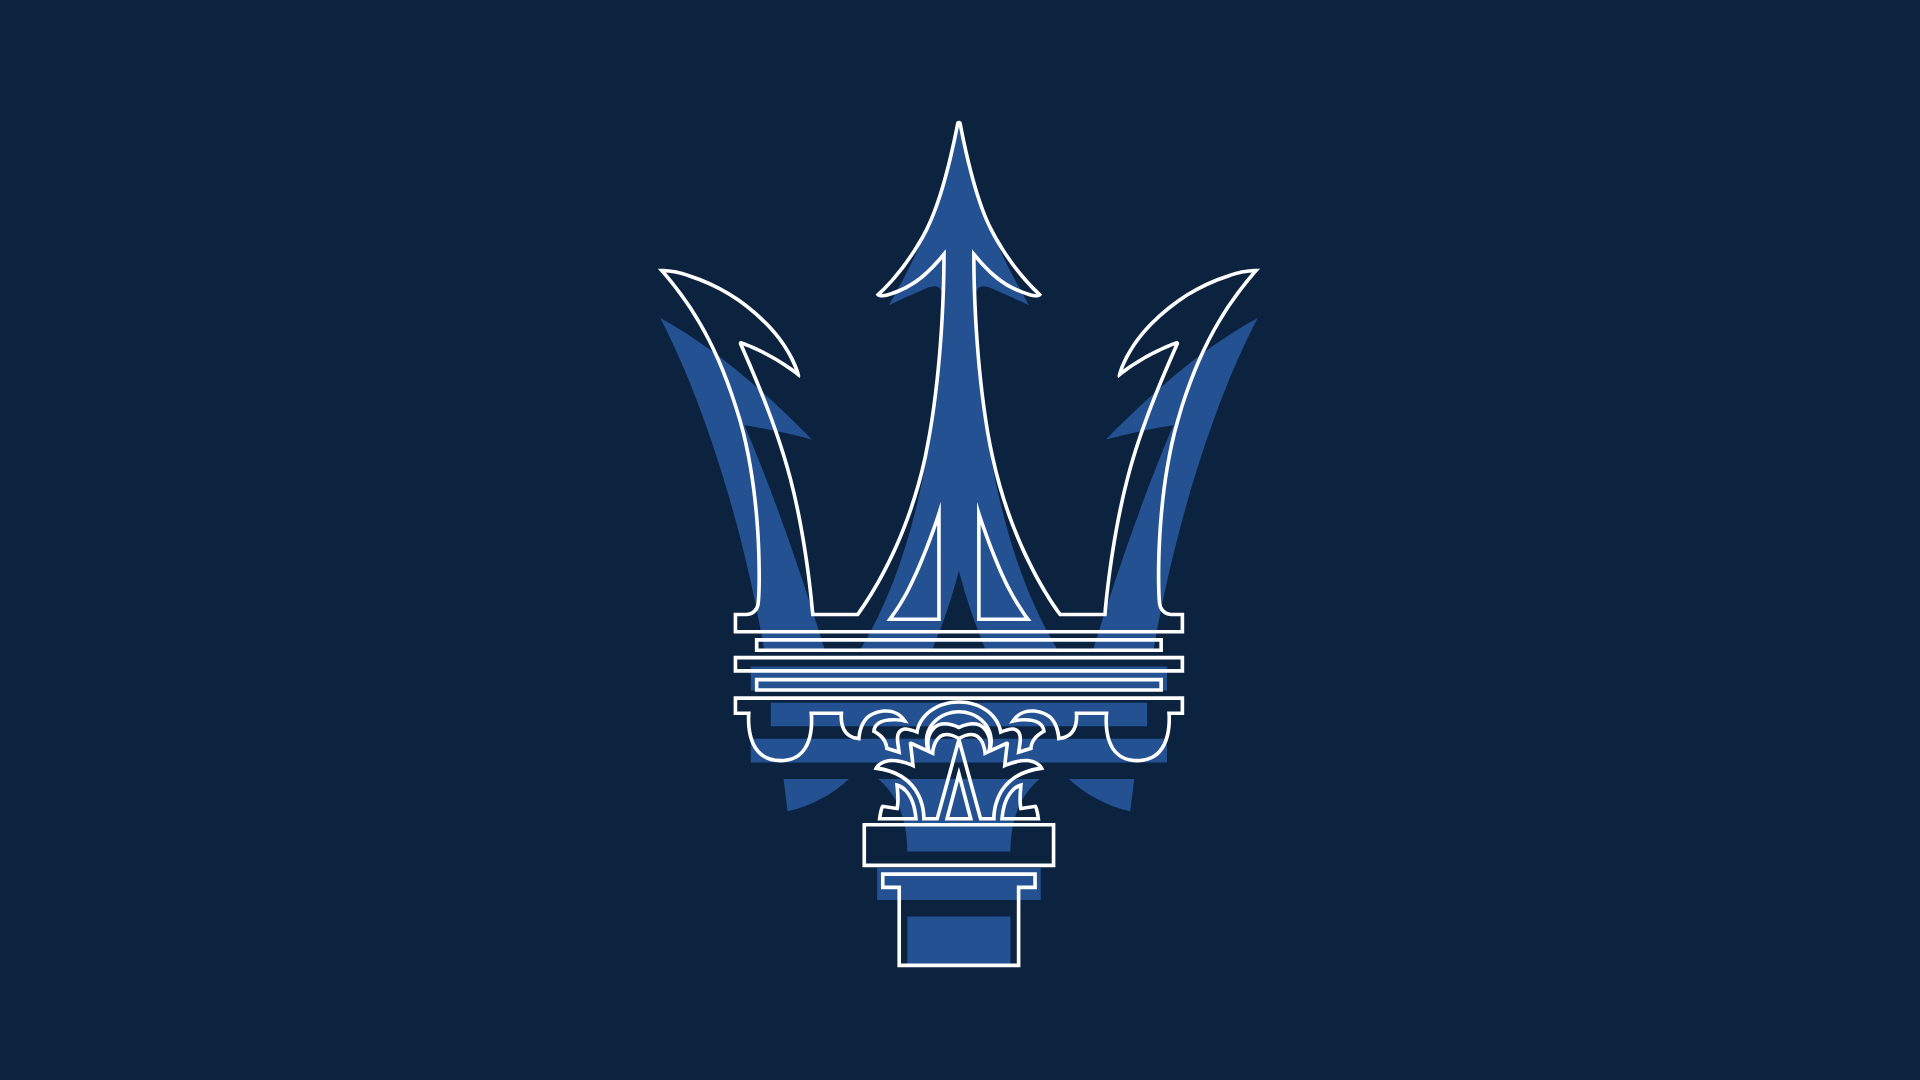
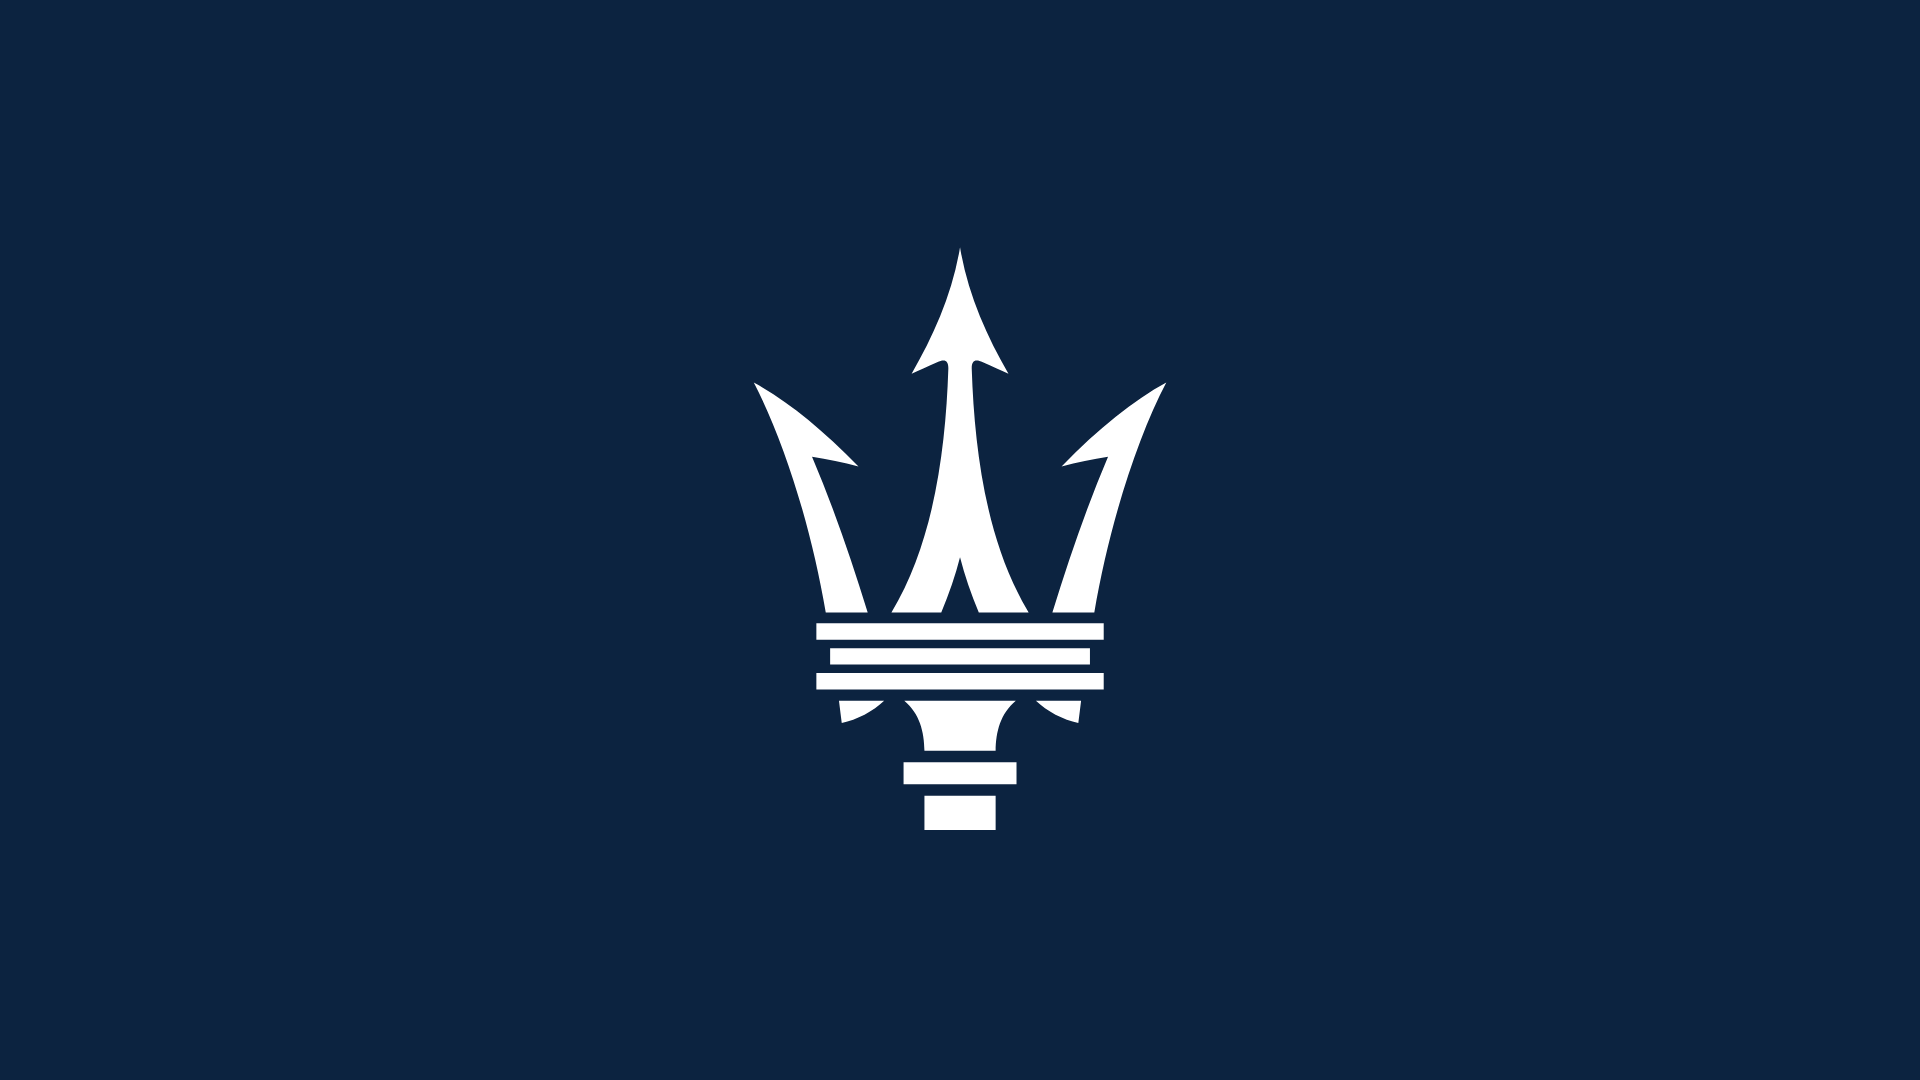
maserati-media: models row with renders live on staging, blue preview with the normal trident
Claude-Session: https://claude.ai/code/session_01V1K6pTs6dJyNp3Qf14o9D6

Changed region(s): [[0.3438, 0.1222, 0.6562, 0.9167]]

diff --git a/maserati-media/README.md b/maserati-media/README.md
@@ -35,7 +35,8 @@ Open points:
 | Final passwords, unlock time confirmed | gate `HASH`/`UNLOCK_AT` in `site/webflow-code/site-head.html` (+ embargo notice), `UPLOAD_PASSWORD` secret |
 | Colour confirmation; light tint `#2536831a` still on a few badge styles in Webflow | Webflow variable `BrandColor`, code files, `public/*.css` |
 | Model covers (now the event key visual as placeholder), descriptions, renders for the models row | Events items (`event-key-visual`, `event-description`, `logo`) |
-| Models row: renders set on Grecale, GranTurismo, GranCabrio, MCPura, GT2 Stradale through the Manager API (24 Nov); Concept render missing. The new row styles (bigger render + name below) are in `site/webflow-code/site-head.html` but NOT yet pasted in Webflow: the Webflow connection lost access to the site on 24 Nov, so the live row still shows small renders without names | Webflow site head code |
+| Models row: renders on Grecale, GranTurismo, GranCabrio, MCPura, GT2 Stradale with the name below (live on staging, 24 Nov); Concept render still missing | Events items (`logo`) |
+| Colour feedback (24 Nov): option 3 ok, red option ok with the centenary trident artwork as event image, blue option wanted with the normal white trident as event image and the "Press Kit" title kept. Final choice not made yet; previews in `site/qa/preview/`, event images in `site/covers/event-trident-*.png` | — |
 | Key visual at full quality (now the 2000 px copy from chat) | `site/covers/`, `public/upload/cover*.webp`, `og.jpg` |
 | Favicon / webclip: upload by hand (no API) | `site/favicon/` |
 | Legal pages: see `site/webflow-code/legal-pages.md` | Webflow |
